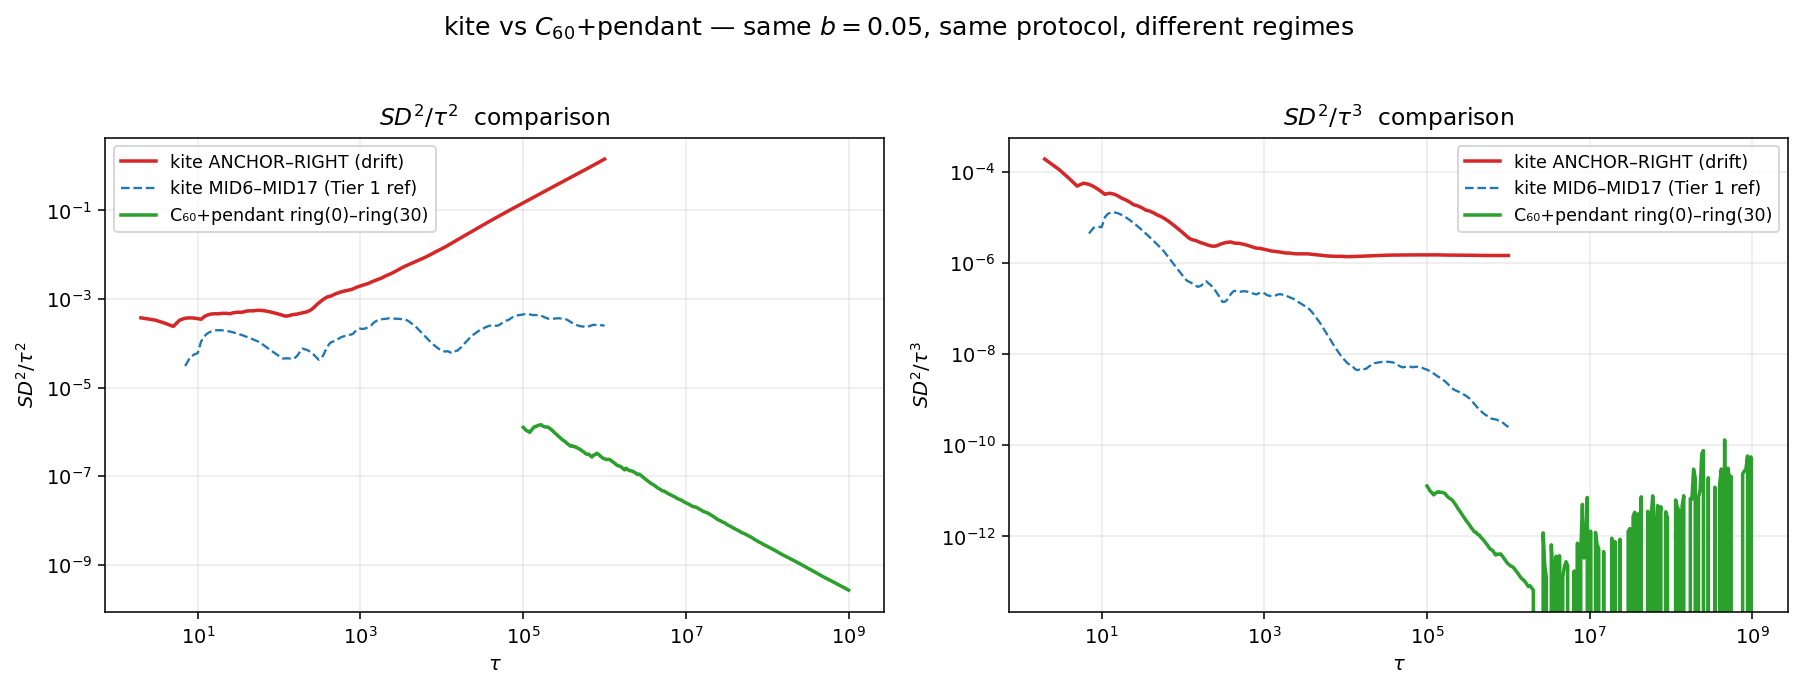
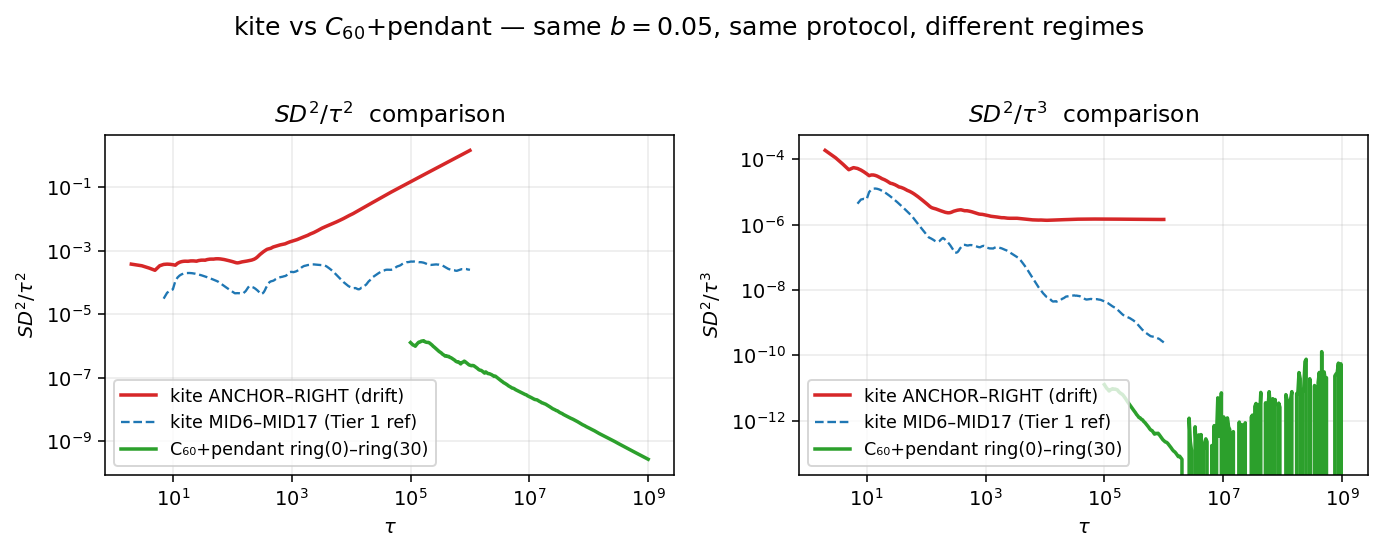
fix: Tier1.5 fig2 figsize (13,5)→(10,4) D38 + md→qmd rename (06:00 공지)

diff --git a/docs/Posts/260522_f0f4e6.html b/docs/Posts/260522_f0f4e6.html
@@ -2,7 +2,7 @@
 <html xmlns="http://www.w3.org/1999/xhtml" lang="en" xml:lang="en"><head>
 
 <meta charset="utf-8">
-<meta name="generator" content="quarto-1.8.27">
+<meta name="generator" content="quarto-1.9.37">
 
 <meta name="viewport" content="width=device-width, initial-scale=1.0, user-scalable=yes">
 
@@ -11,6 +11,9 @@
 
 <title>연구 ▷ HST ▷ Tier 1.5 cross-over 실증 — kite vs C₆₀+pendant – 신록예찬’s Blog</title>
 <style>
+/* Default styles provided by pandoc.
+** See https://pandoc.org/MANUAL.html#variables-for-html for config info.
+*/
 code{white-space: pre-wrap;}
 span.smallcaps{font-variant: small-caps;}
 div.columns{display: flex; gap: min(4vw, 1.5em);}
@@ -34,15 +37,14 @@ ul.task-list li input[type="checkbox"] {
 <meta name="quarto:offset" content="../">
 <script src="../site_libs/quarto-html/quarto.js" type="module"></script>
 <script src="../site_libs/quarto-html/tabsets/tabsets.js" type="module"></script>
-<script src="../site_libs/quarto-html/axe/axe-check.js" type="module"></script>
 <script src="../site_libs/quarto-html/popper.min.js"></script>
 <script src="../site_libs/quarto-html/tippy.umd.min.js"></script>
 <script src="../site_libs/quarto-html/anchor.min.js"></script>
 <link href="../site_libs/quarto-html/tippy.css" rel="stylesheet">
-<link href="../site_libs/quarto-html/quarto-syntax-highlighting-8b4baf804e461d9b72633f0de59a0cac.css" rel="stylesheet" id="quarto-text-highlighting-styles">
+<link href="../site_libs/quarto-html/quarto-syntax-highlighting-acf12a64177840b8d86f2d4f01b2e9fb.css" rel="stylesheet" id="quarto-text-highlighting-styles">
 <script src="../site_libs/bootstrap/bootstrap.min.js"></script>
 <link href="../site_libs/bootstrap/bootstrap-icons.css" rel="stylesheet">
-<link href="../site_libs/bootstrap/bootstrap-165db4a5700707ee9723b4db2002e5ec.min.css" rel="stylesheet" append-hash="true" id="quarto-bootstrap" data-mode="light">
+<link href="../site_libs/bootstrap/bootstrap-42eb1ed98d6b40681f6bda2512c0def3.min.css" rel="stylesheet" append-hash="true" id="quarto-bootstrap" data-mode="light">
 <script id="quarto-search-options" type="application/json">{
   "location": "navbar",
   "copy-button": false,
@@ -72,7 +74,7 @@ ul.task-list li input[type="checkbox"] {
 }</script>
 
   <script src="https://cdnjs.cloudflare.com/polyfill/v3/polyfill.min.js?features=es6"></script>
-  <script src="https://cdn.jsdelivr.net/npm/mathjax@3/es5/tex-chtml-full.js" type="text/javascript"></script>
+  <script defer="" src="https://cdn.jsdelivr.net/npm/mathjax@3/es5/tex-chtml-full.js" type="text/javascript"></script>
 
 <script type="text/javascript">
 const typesetMath = (el) => {
